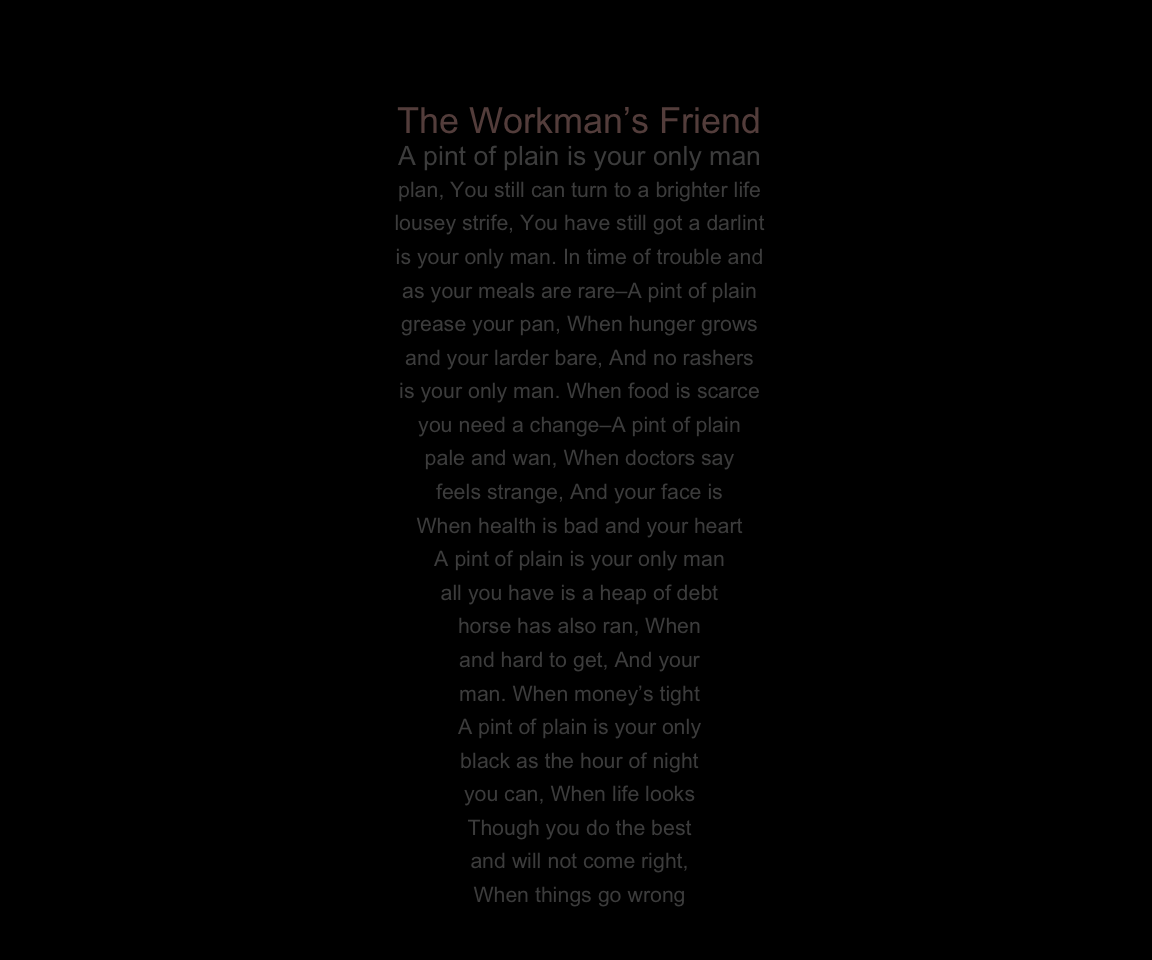
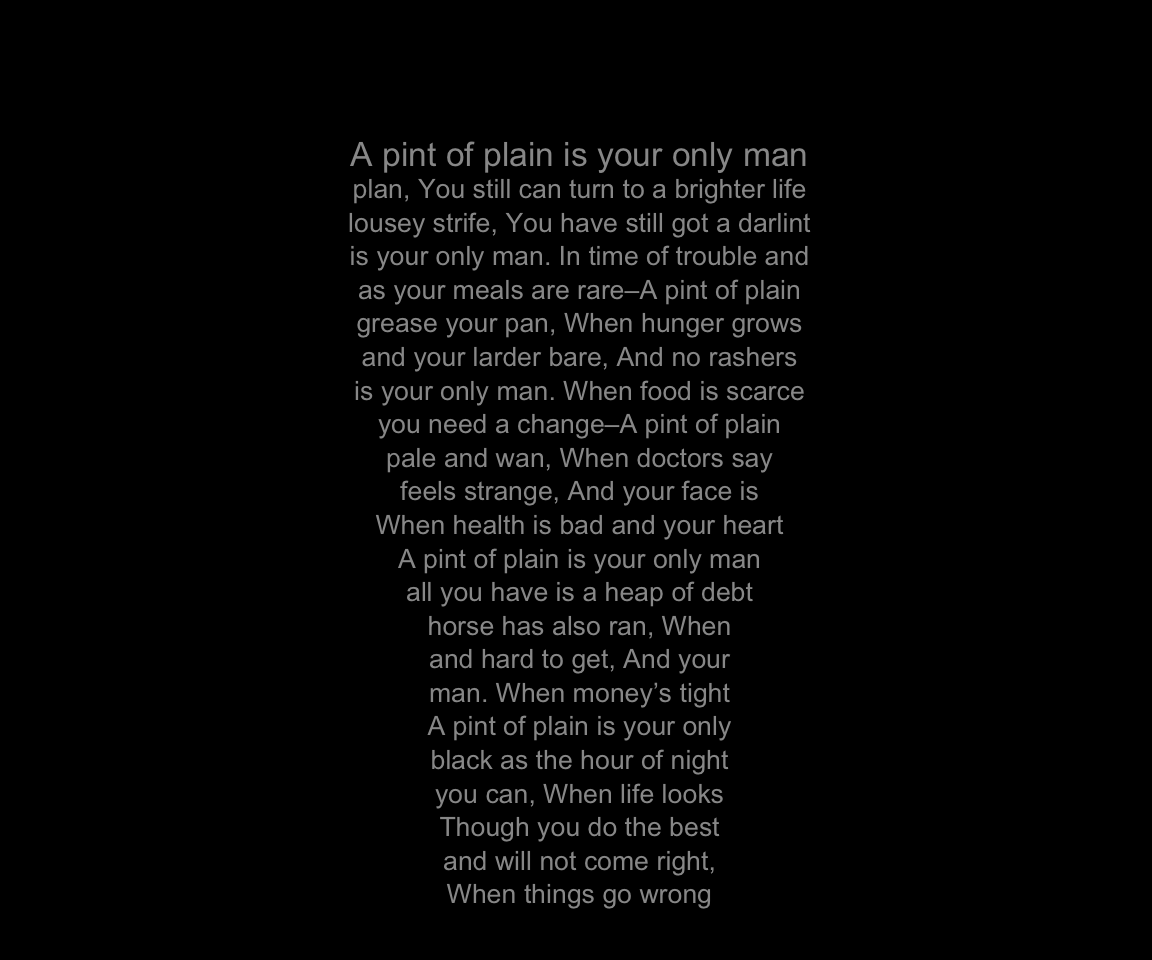
testing font and colour

Changed region(s): [[0.3125, 0.0938, 0.7188, 0.9688]]

diff --git a/docs/index.html b/docs/index.html
@@ -77,12 +77,12 @@ ul.task-list li input[type="checkbox"] {
 <link rel="stylesheet" href="styles.css">
 <meta property="og:title" content="The Workman’s Friend">
 <meta property="og:description" content="The Workman’s Friend by Flann O’Brian">
-<meta property="og:image" content="https://workmans-friend.github.io/pint-of-plain/index_files/figure-html/unnamed-chunk-26-1.png">
+<meta property="og:image" content="https://workmans-friend.github.io/pint-of-plain/index_files/figure-html/unnamed-chunk-27-1.png">
 <meta property="og:image:height" content="960">
 <meta property="og:image:width" content="1152">
 <meta name="twitter:title" content="The Workman’s Friend">
 <meta name="twitter:description" content="The Workman’s Friend by Flann O’Brian">
-<meta name="twitter:image" content="https://workmans-friend.github.io/pint-of-plain/index_files/figure-html/unnamed-chunk-26-1.png">
+<meta name="twitter:image" content="https://workmans-friend.github.io/pint-of-plain/index_files/figure-html/unnamed-chunk-27-1.png">
 <meta name="twitter:image-height" content="960">
 <meta name="twitter:image-width" content="1152">
 <meta name="twitter:card" content="summary_large_image">
@@ -101,11 +101,11 @@ ul.task-list li input[type="checkbox"] {
       <!-- user-provided yaml closeread style options -->
       <style>
         :root {
-          --cr-narrative-text-color-sidebar: white;
---cr-narrative-sidebar-width: 50%;
---cr-narrative-font-size: 64;
+          --cr-narrative-background-color-overlay: transparent;
 --cr-section-background-color: black;
---cr-narrative-background-color-overlay: transparent;
+--cr-narrative-sidebar-width: 50%;
+--cr-narrative-font-size: 2em;
+--cr-narrative-text-color-sidebar: white;
         }
       </style>
     
@@ -246,6 +246,11 @@ ul.task-list li input[type="checkbox"] {
 </div>
 </div>
 <div class="trigger new-trigger" data-focus-on="cr-line25">
+<div class="narrative">
+
+</div>
+</div>
+<div class="trigger new-trigger" data-focus-on="cr-line26">
 <div class="narrative">
 
 </div>
@@ -517,12 +522,23 @@ ul.task-list li input[type="checkbox"] {
 </div>
 </div>
 </div>
-<div id="cr-line25" class="preview-image sticky">
+<div id="cr-line25" class="sticky">
 <div class="cell">
 <div class="cell-output-display">
 <div>
 <figure class="figure">
 <p><img src="index_files/figure-html/unnamed-chunk-26-1.png" class="img-fluid figure-img" width="576"></p>
+</figure>
+</div>
+</div>
+</div>
+</div>
+<div id="cr-line26" class="preview-image sticky">
+<div class="cell">
+<div class="cell-output-display">
+<div>
+<figure class="figure">
+<p><img src="index_files/figure-html/unnamed-chunk-27-1.png" class="img-fluid figure-img" width="576"></p>
 </figure>
 </div>
 </div>
